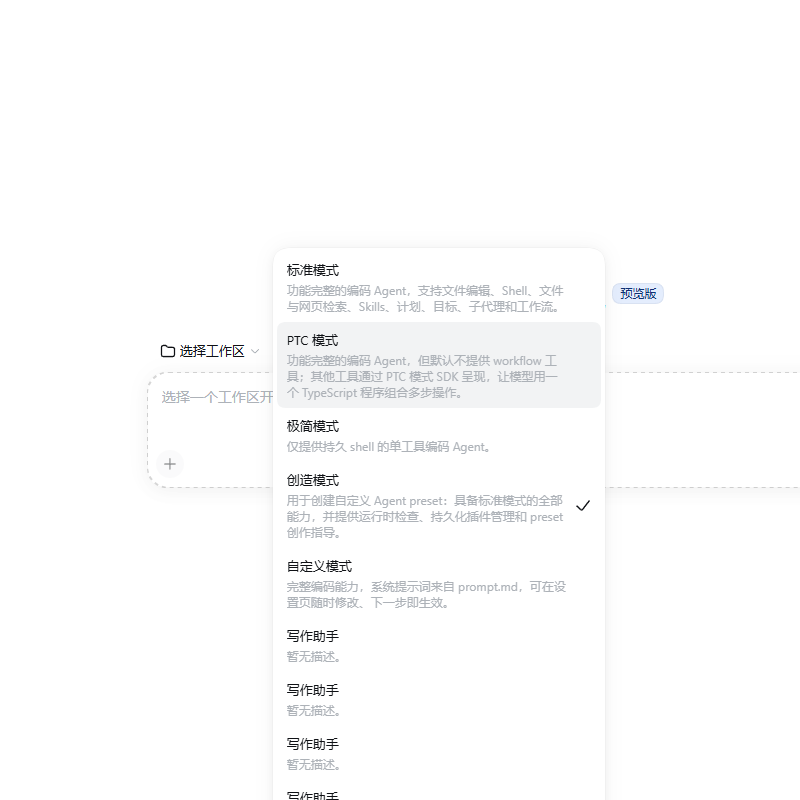
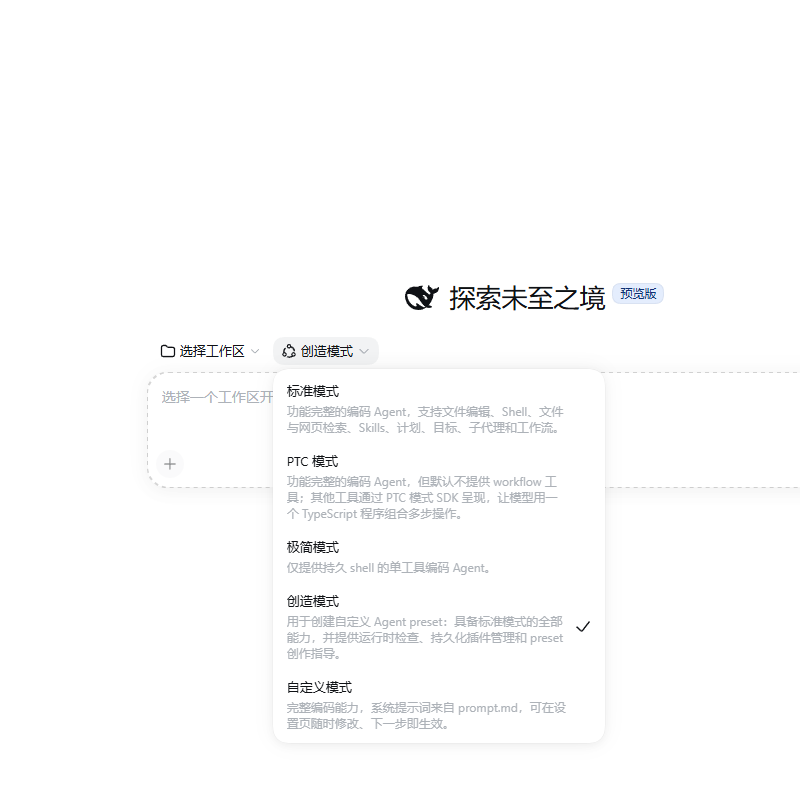
feat(prompt): 「恢复出厂提示词」—— 一键回到出厂模板
用户反馈：提示词改坏之后只能删掉整个助手重建，没有回头路。系统提示词区块加第三个按钮。

- 宿主半把出厂模板（editor/preset/prompt.md，即新建助手时那份）随 state 下发为 factoryPrompt；
  读不到就为 null（页面把按钮置灰，而不是给一个会写坏文件的按钮），原因写进宿主日志。
- 只改**草稿**：不点保存不落盘，「重新读取」可撤销 —— 与页面其余部分同一套语义，误点毁不掉提示词；
  编辑器已是出厂文本时按钮自动置灰。`draftOf()` 归一化时带上了 factoryPrompt（漏掉这一行按钮会
  一直置灰：真点了没反应，是浏览器验收抓出来的）。
- 文案四处同步（locales.mjs 与 client.js 的中英各一份），prompt.hint 也补上这个按钮的说明。
- 测试：路由测试断言 state 带 factoryPrompt、与打包模板逐字节一致、且**原样保存能成功**（否则
  "恢复 → 保存"就是个陷阱）；浏览器验收新增真点验证 —— 按钮渲染、点击后编辑器变成出厂文本、
  「重新读取」仍能回到点击前的文本（证明只改草稿）。21 → 26 项。
- 界面图重拍（03 现在带这个按钮）。

Changed region(s): [[0.3438, 0.3125, 0.75, 1.0]]

diff --git a/editor/client.js b/editor/client.js
@@ -76,6 +76,8 @@ try {
         "btn.moveDown": "下移",
         "btn.import": "导入提示词",
         "btn.export": "导出提示词",
+        "btn.reset": "恢复出厂提示词",
+        "btn.resetHint": "把编辑器里的内容换成出厂模板（新建助手时得到的那一份）。它同样只改草稿，点保存才落盘 —— 误点可以用「重新读取」撤销。",
         "btn.delete": "删除这个助手",
         "btn.cancel": "取消",
         "msg.created": "已创建。现在可以为它写系统提示词。",
@@ -109,7 +111,7 @@ try {
         "rows.heading": "插件开关",
         "rows.hint": "逐行控制这个模式挂载哪些插件，和官方插件列表一样按行铺开。没拨过的行保持官方默认（含平台判断）；你手动拨了就以你的为准。",
         "prompt.heading": "系统提示词",
-        "prompt.hint": "这段文本在每个模型调用前重新读取，所以保存后下一步即生效，且只影响使用这个助手的会话。「导入」把文件读进编辑器（未保存前不写入任何东西）；「导出」把当前文本存成 .md 文件。",
+        "prompt.hint": "这段文本在每个模型调用前重新读取，所以保存后下一步即生效，且只影响使用这个助手的会话。「导入」把文件读进编辑器（未保存前不写入任何东西）；「导出」把当前文本存成 .md 文件；「恢复出厂提示词」把出厂模板填回编辑器（同样要保存才写入）。",
         "status.enabled": "已启用",
         "status.disabled": "已停用",
         "status.changed": "已改",
@@ -206,6 +208,8 @@ try {
         "btn.moveDown": "Move down",
         "btn.import": "Import prompt",
         "btn.export": "Export prompt",
+        "btn.reset": "Reset to factory prompt",
+        "btn.resetHint": "Puts the shipped template back into the editor (the text a new assistant starts from). Like every other edit it only changes the draft — save to apply, or use Reload to discard.",
         "btn.delete": "Delete this assistant",
         "btn.cancel": "Cancel",
         "msg.created": "Created. Now you can write its system prompt.",
@@ -239,7 +243,7 @@ try {
         "rows.heading": "Plugin switches",
         "rows.hint": "Control row by row which plugins this mode mounts, laid out like the official plugin list. Untouched rows keep the official default (platform conditions included); your manual choice wins.",
         "prompt.heading": "System prompt",
-        "prompt.hint": "This text is re-read before every model call, so a save applies on the next step and only affects sessions on this assistant. \"Import\" reads a file into the editor (nothing is written until you save); \"Export\" saves the current text as a .md file.",
+        "prompt.hint": "This text is re-read before every model call, so a save applies on the next step and only affects sessions on this assistant. \"Import\" reads a file into the editor (nothing is written until you save); \"Export\" saves the current text as a .md file; \"Reset to factory prompt\" puts the shipped template back into the editor (also saved only when you save).",
         "status.enabled": "Enabled",
         "status.disabled": "Disabled",
         "status.changed": "changed",
@@ -580,6 +584,9 @@ try {
           prompt: state.prompt,
           name: typeof state.name === "string" ? state.name : "",
           description: typeof state.description === "string" ? state.description : "",
+          // 「恢复出厂提示词」要用它。它不是草稿的一部分，`sameDraft` 不比较它 ——
+          // 漏掉这一行按钮会一直置灰（实测：真点了没反应，浏览器验收抓到）。
+          factoryPrompt: typeof state.factoryPrompt === "string" ? state.factoryPrompt : null,
         }
       }
 
@@ -896,6 +903,18 @@ try {
         }
 
         /** Download the prompt being edited (client-side only — the host is not involved). */
+        /**
+         * 把编辑器内容换回出厂提示词。
+         *
+         * 只改**草稿**，不写盘：这样"一键回到官方"既立刻可见，又可被「重新读取」撤销 ——
+         * 与页面其余部分一样，一切改动都要点保存才落盘。
+         */
+        const resetPrompt = () => {
+          const factory = typeof draft.factoryPrompt === "string" ? draft.factoryPrompt : ""
+          if (factory === "") return
+          update({ prompt: factory })
+        }
+
         const exportPrompt = () => {
           try {
             const blob = new Blob([draft.prompt], { type: "text/markdown;charset=utf-8" })
@@ -1258,6 +1277,21 @@ try {
                         },
                       },
                       t("btn.import"),
+                    ),
+                    react.createElement(
+                      A.Button,
+                      {
+                        variant: "outline",
+                        size: "sm",
+                        disabled:
+                          busy ||
+                          typeof draft.factoryPrompt !== "string" ||
+                          draft.factoryPrompt === "" ||
+                          draft.prompt === draft.factoryPrompt,
+                        onClick: resetPrompt,
+                        title: t("btn.resetHint"),
+                      },
+                      t("btn.reset"),
                     ),
                     // The picker itself is invisible; the button above is the affordance. The
                     // file is read locally and lands in the editor, never straight on disk.

diff --git a/README.zh.md b/README.zh.md
@@ -65,6 +65,7 @@ cd dsh-custom-mode
 
 - **排序** —— 选中助手后「上移 / 下移」，顺序写在每个助手的 `preset.yml` 里（`order`，也就是 roster 自己的排序键），所以重启后仍然生效，新建会话的选择器按这个顺序排列。
 - **导入 / 导出提示词** —— 「导出提示词」把当前文本存成 `.md`；「导入提示词」把文件读进**编辑器**（不会直接落盘，仍需点保存），因此导入同样要过 `{{…}}` 校验。
+- **恢复出厂提示词** —— 一键把**出厂模板**（新建助手时得到的那份文本）填回编辑器。它和页面上其它改动一样只改**草稿**：不点保存不会落盘，「重新读取」即可撤销。在此之前，把提示词改坏了只能删掉助手重建。
 - **新增助手** —— 填个名字点「新增助手」。新助手从模板生成：标准模式的全部行 + 一份默认提示词，写好后在新建会话的选择器里就能选到它。
 - **复制一份** —— 把当前助手的提示词、基础模式、逐行开关整个复制到新助手，之后各改各的。
 - **每个助手各自独立** —— 提示词、基础模式、逐行开关都属于它自己，改一个不影响别的。
@@ -160,7 +161,7 @@ dsh 的系统提示词通常来自 preset 的 YAML，而官方 `@deepseek-ai/dsh
 ## 开发
 
 ```sh
-node test/run.mjs        # 11 个套件、521 项；自己解析出厂 preset 目录
+node test/run.mjs        # 11 个套件、526 项；自己解析出厂 preset 目录
 ```
 
 改 `editor/client.js` 会被 `@deepseek-ai/dsh-client-hmr` 在约 1 秒后热替换；改宿主半（`index.mjs`、`composition.mjs`、`meta.mjs`、`paths.mjs`）需要重启。每个套件在防什么见 [`test/README.md`](test/README.zh.md)，改行为之前先读 [`CONTRIBUTING.zh.md`](CONTRIBUTING.zh.md)。

diff --git a/CHANGELOG.md b/CHANGELOG.md
@@ -8,6 +8,32 @@ CI asserts the DSH version it actually installs and tests falls inside them — 
 section of the README. Entries from `0.1.6-alpha.*` and earlier follow the old convention (the version
 mirrored the DSH release) and are kept as history.
 
+## [1.1.0]
+
+### New: "Reset to factory prompt"
+
+An edited prompt could previously only be recovered by deleting the assistant and creating it again — there
+was no way back. The system-prompt block now has a third button:
+
+- **「恢复出厂提示词」** puts the **shipped template** (the text a new assistant starts from, i.e.
+  `editor/preset/prompt.md`) back into the editor.
+- It is **draft-only**, like every other edit on the page: nothing is written until you save, and
+  Reload discards it — so a misclick cannot destroy a prompt. The button disables itself when the editor
+  already shows the factory text.
+- The host half sends the template with the state response (`factoryPrompt`); if it cannot be read, the
+  button is disabled rather than writing something wrong, and the reason goes to the host log.
+- The reset text goes through the same `{{…}}` validation as anything typed — a test saves it verbatim to
+  prove the "reset → save" path works.
+
+Verified in a real browser (`tools/browser-verify.mjs`, now 26 checks): the button renders, the click
+replaces the editor text with the factory text, and Reload still restores the pre-click text (i.e. it
+really was a draft).
+
+### Also
+
+- Screenshots regenerated: `05-assistant-manager.png` no longer repeats `01`'s content (it is cropped to
+  the assistant section, 800×292), and the screenshot tool no longer calls the pre-`1.0.3` route path.
+
 ## [1.0.4]
 
 ### Windows support: three platform defects an external review found by testing there

diff --git a/CHANGELOG.zh.md b/CHANGELOG.zh.md
@@ -6,6 +6,26 @@
 `engines.dsh` 与 `@deepseek-ai/dsh` peer 范围声明，CI 断言它实际安装并测试的 dsh 版本落在这些范围内
 —— 见 README「版本」。`0.1.6-alpha.*` 及更早的条目遵循旧约定（版本号镜像 DSH 版本），作为历史保留。
 
+## [1.1.0]
+
+### 新增：「恢复出厂提示词」
+
+此前提示词改坏之后只能删掉助手重建 —— 没有回头路。系统提示词区块现在有第三个按钮：
+
+- **「恢复出厂提示词」** 把**出厂模板**（新建助手时得到的那份文本，即 `editor/preset/prompt.md`）填回编辑器。
+- 它和页面上其它改动一样**只改草稿**：不点保存不会落盘，「重新读取」即可撤销 —— 所以误点毁不掉提示词。
+  编辑器里已经是出厂文本时，按钮自动置灰。
+- 宿主半把模板随 state 一起下发（`factoryPrompt`）；读不到时按钮置灰而不是写坏东西，原因写进宿主日志。
+- 恢复的文本要和手输的一样过 `{{…}}` 校验；有测试把它原样保存一遍，证明"恢复 → 保存"这条链路成立。
+
+真浏览器验收（`tools/browser-verify.mjs`，现 26 项）覆盖：按钮渲染、点击后编辑器变成出厂文本、
+「重新读取」仍能回到点击前的文本（也就是它确实只改了草稿）。
+
+### 顺带
+
+- 界面图重拍：`05-assistant-manager.png` 不再重复 01 的内容（裁到助手段，800×292）；截图工具也不再调用
+  `1.0.3` 之前的旧路由路径。
+
 ## [1.0.4]
 
 ### Windows 支持：外部审阅在那个平台实测出的三处缺陷

diff --git a/README.md b/README.md
@@ -82,6 +82,10 @@ plugin switches, system prompt) edit **whichever one is selected**.
 - **Import / export a prompt** — "Export prompt" saves the current text as a `.md`; "Import prompt"
   reads a file into the **editor** (nothing is written until you save), so an import goes through the
   same `{{…}}` validation as anything typed.
+- **Reset to the factory prompt** — one click puts the **shipped template** (the text a new assistant
+  starts from) back into the editor. It is draft-only like every other edit: nothing is written until
+  you save, and Reload discards it. Before this existed, a prompt you had edited into a corner could
+  only be recovered by deleting the assistant and creating it again.
 - **New assistant** — type a name and click "New assistant". It is seeded from the packaged template:
   the full Standard row set plus a starter prompt, selectable in a new session as soon as you save it.
 - **Duplicate** — copies the selected assistant's prompt, base mode and row switches into a new one;
@@ -212,7 +216,7 @@ below exist, which is what the ranges are for.
 ## Development
 
 ```sh
-node test/run.mjs        # 11 suites, 521 checks; resolves the shipped presets itself
+node test/run.mjs        # 11 suites, 526 checks; resolves the shipped presets itself
 ```
 
 Edits to `editor/client.js` are hot-swapped by `@deepseek-ai/dsh-client-hmr` about a second later; the

diff --git a/AGENTS.md b/AGENTS.md
@@ -17,7 +17,7 @@ deliberately **two artifacts**, because they are mounted on different planes (se
 ## Commands
 
 ```sh
-node test/run.mjs                                  # 11 suites, 521 checks; resolves the shipped presets itself
+node test/run.mjs                                  # 11 suites, 526 checks; resolves the shipped presets itself
 node tools/verify-translation-pairing.mjs          # bilingual pairing check (what CI runs)
 bash -n install.sh && bash -n uninstall.sh         # syntax of the two scripts
 

diff --git a/CONTRIBUTING.md b/CONTRIBUTING.md
@@ -34,7 +34,7 @@ table first).
 ```sh
 git clone https://github.com/BOWLUNA/dsh-custom-mode
 cd dsh-custom-mode
-node test/run.mjs          # 521 checks across eleven suites; resolves the shipped presets itself
+node test/run.mjs          # 526 checks across eleven suites; resolves the shipped presets itself
 ```
 
 To try the plugin against a real harness, install it into a **throwaway** `DSH_HOME` so your own
